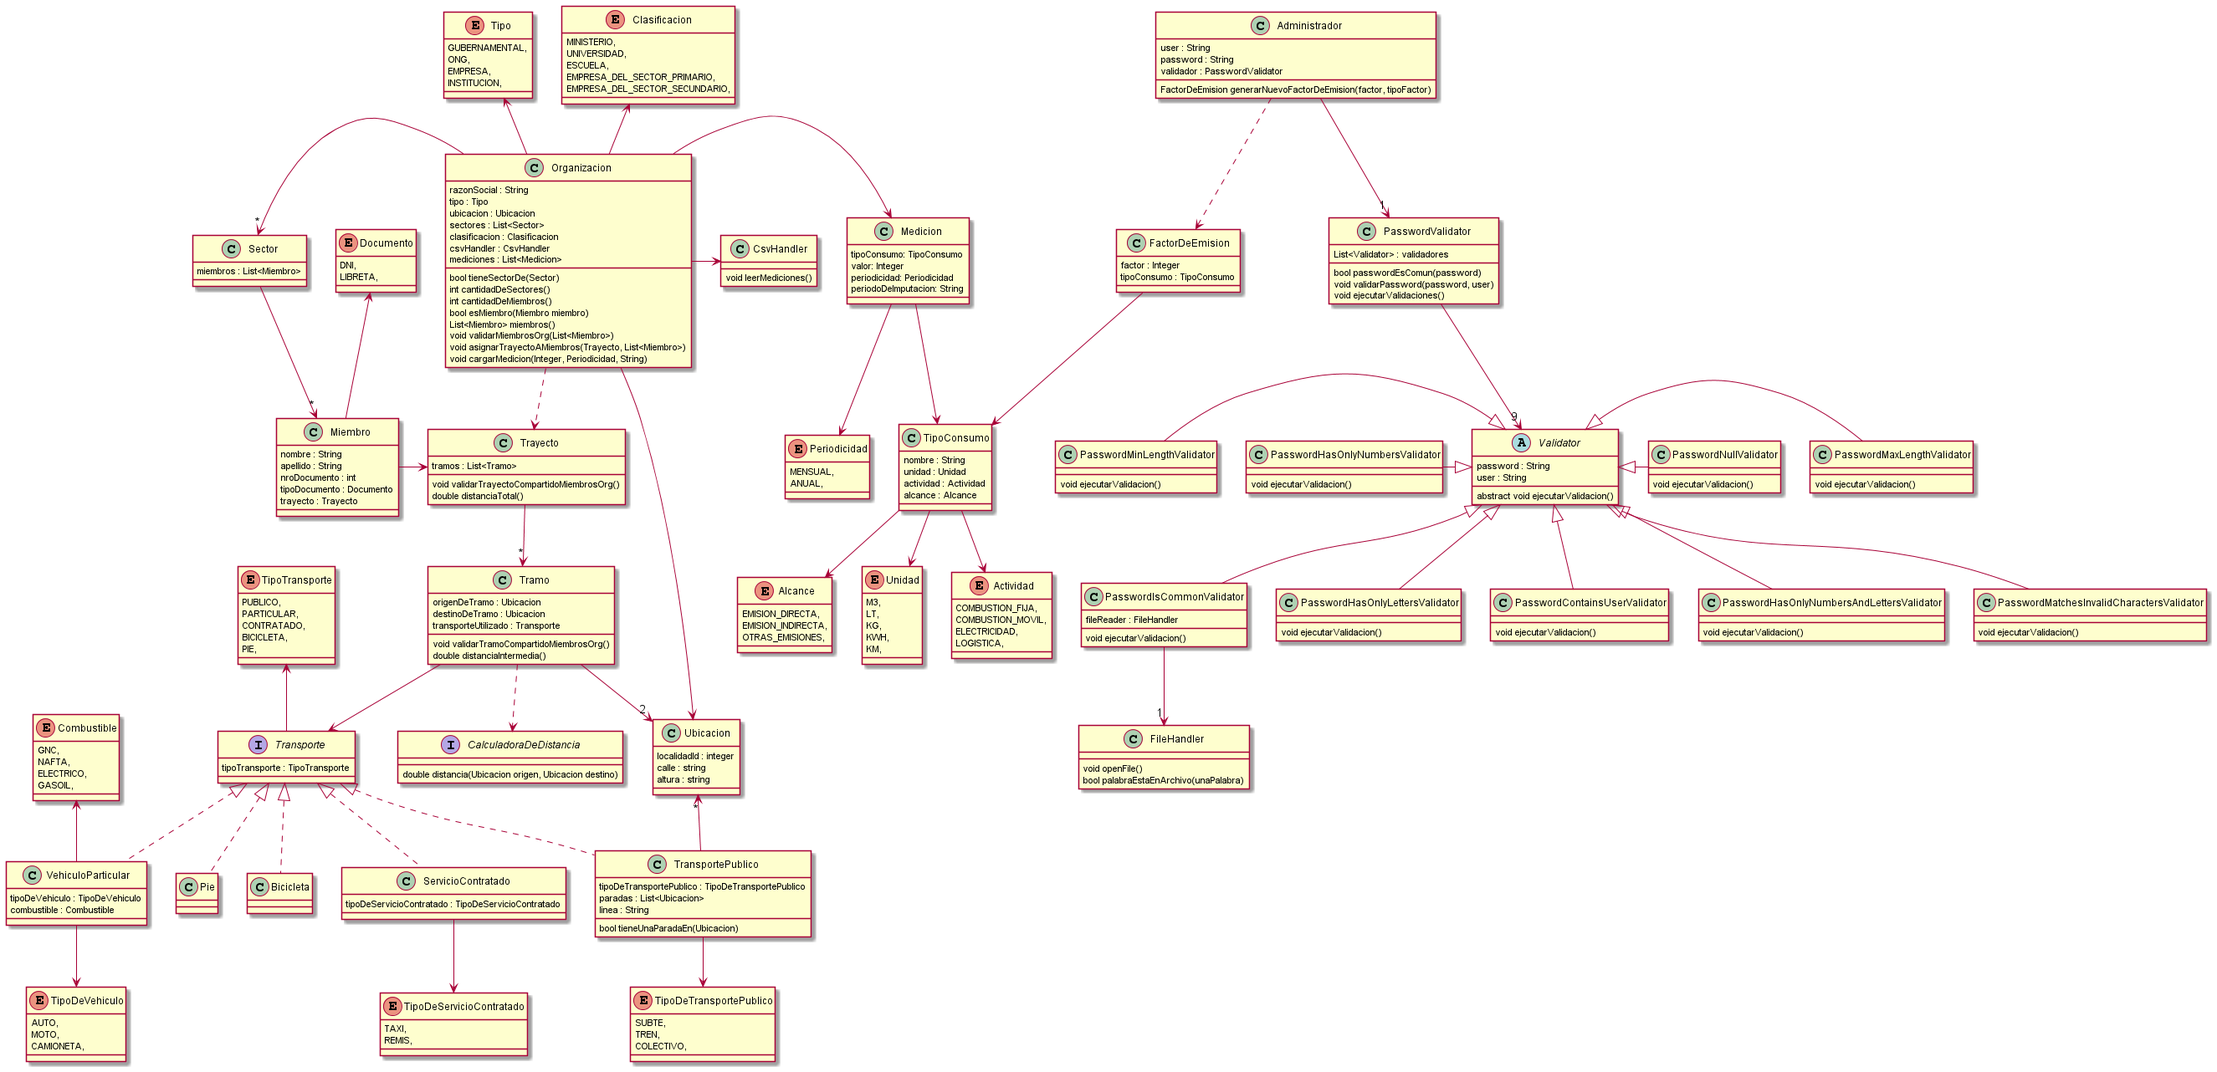
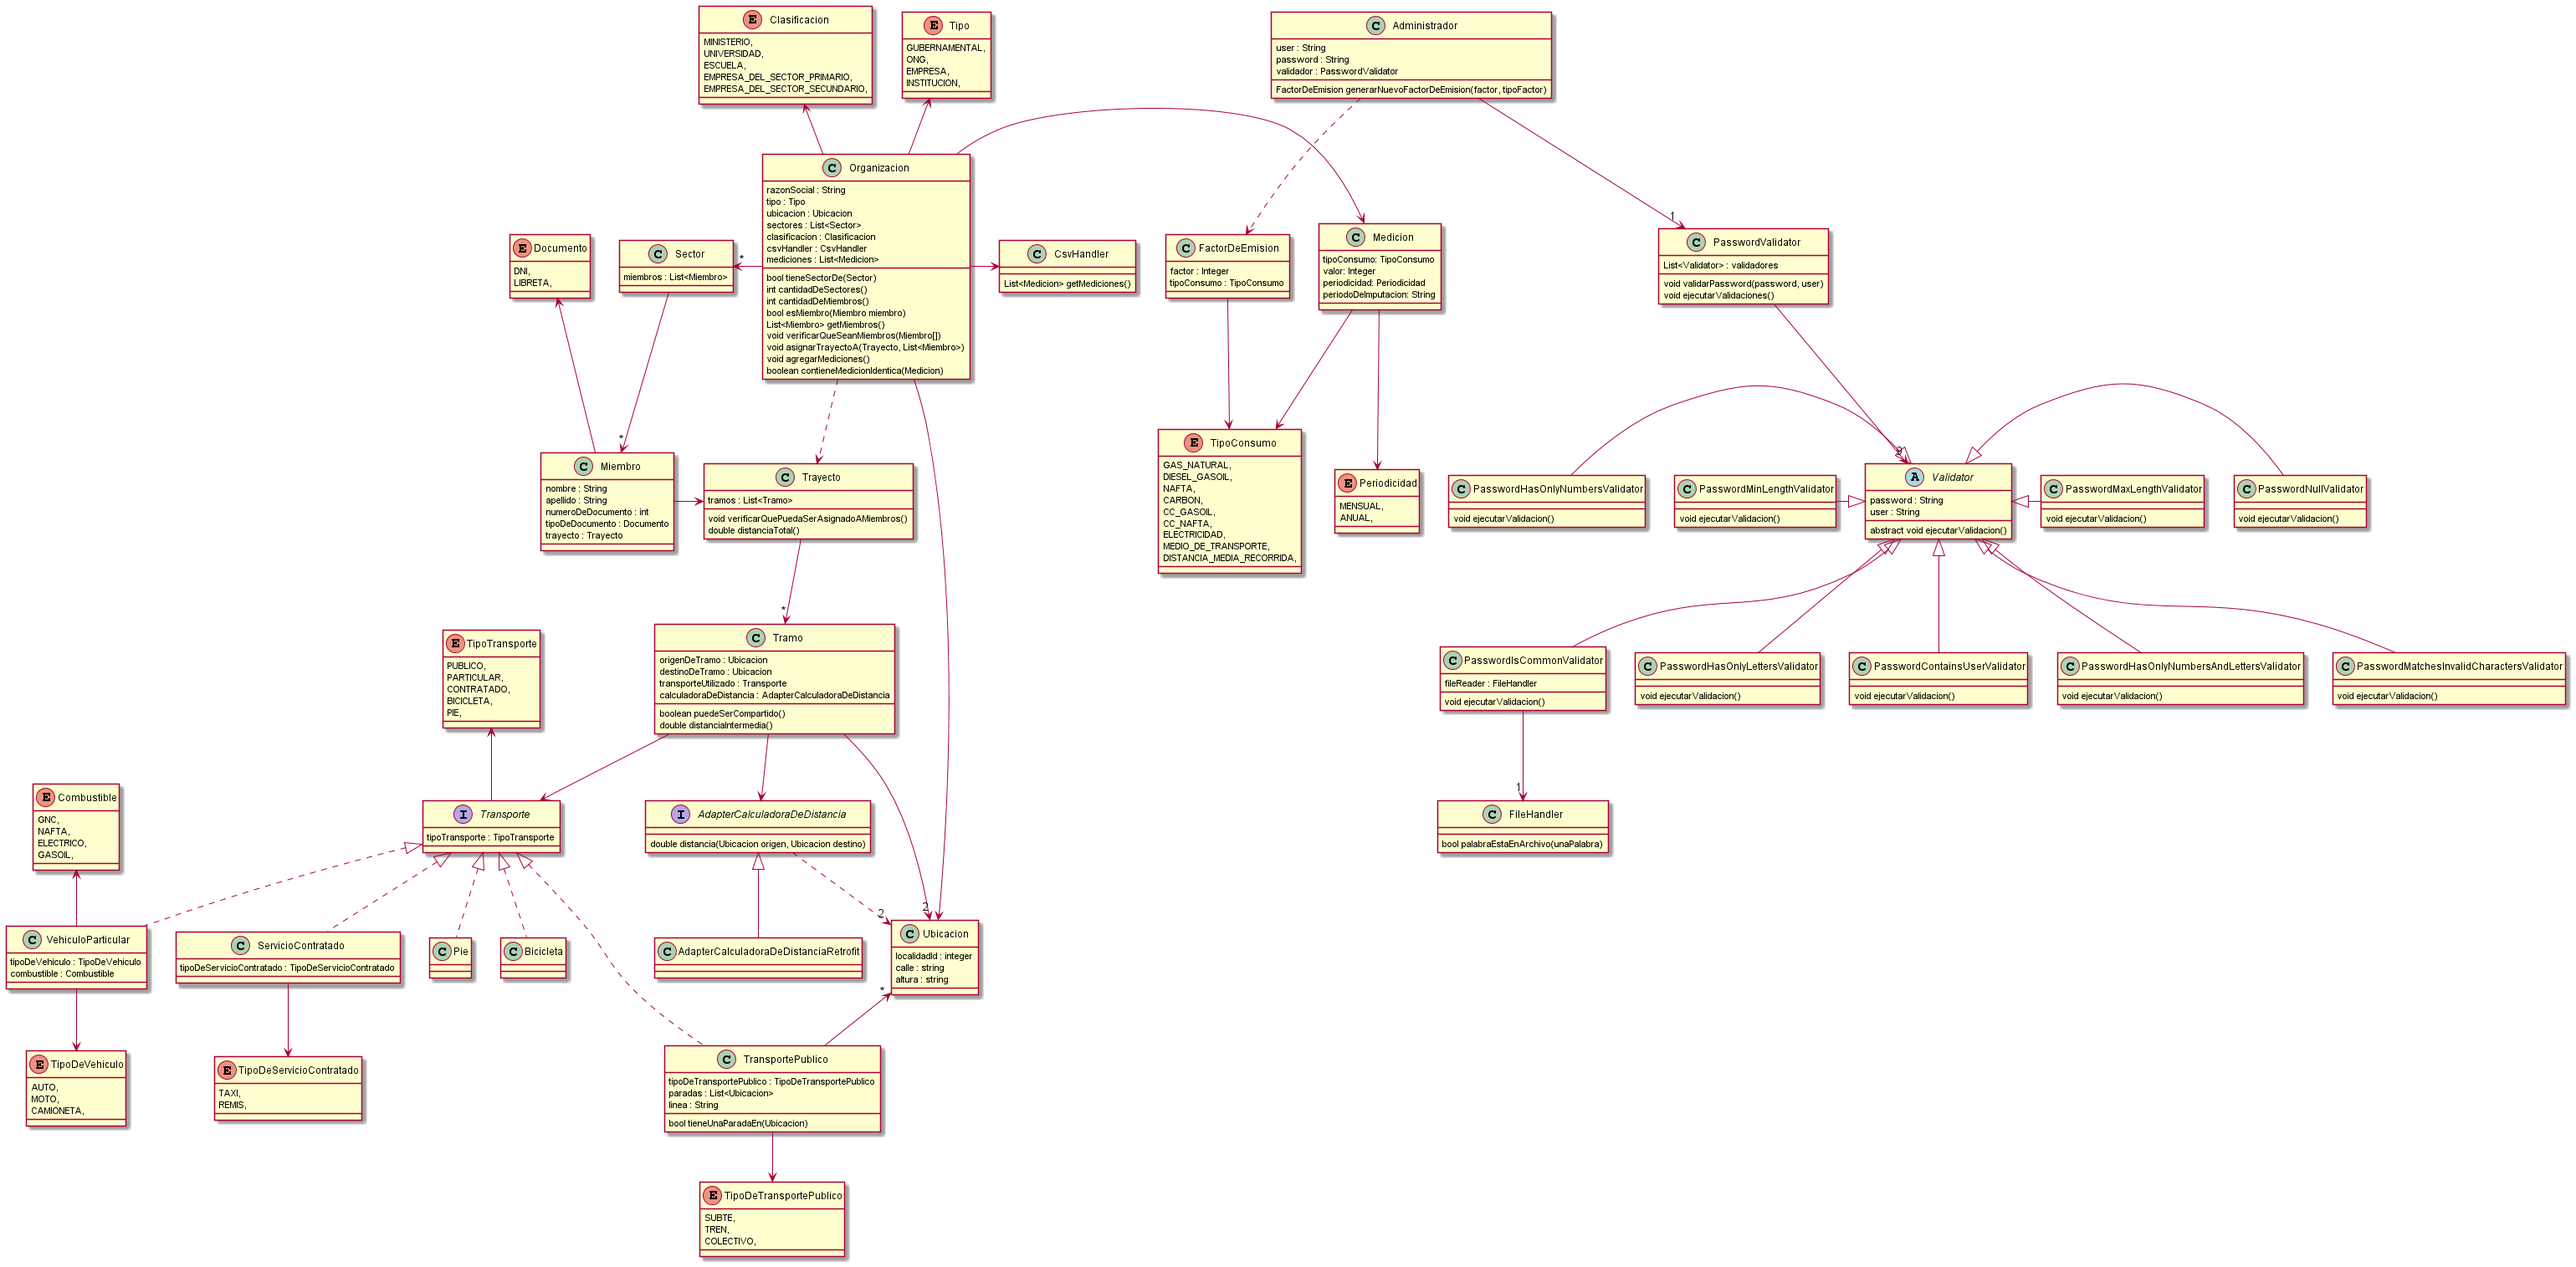
Modificado: Diagrama de clases para segunda entrega

diff --git a/src/main/java/domain/trayecto/Tramo.java b/src/main/java/domain/trayecto/Tramo.java
@@ -46,10 +46,6 @@ public class Tramo {
         || this.transporteUtilizado.esDeTipo(TipoTransporte.CONTRATADO);
   }
 
-  void validarTramoCompartidoMiembrosOrg(){
-
-  }
-
   public double distanciaIntermedia() {
     return this.calculadoraDeDistancia.distancia(origenDeTramo, destinoDeTramo);
   }
